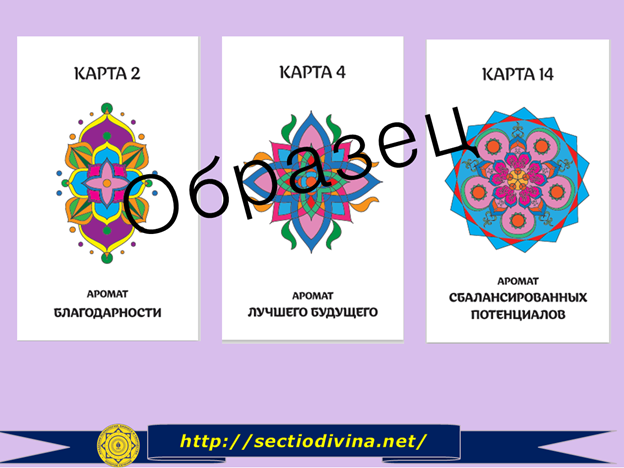
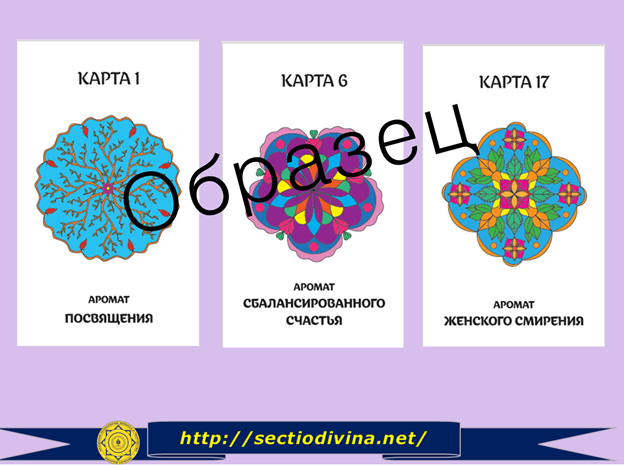
обновил карты

diff --git a/index.html b/index.html
@@ -53,11 +53,10 @@
       <div class="position-card">
         <div class="info infos1" id="info1">
           <h1 class="main-text1">Карта № 1</h1>
-          <h2 class="main-text2">Аромат благодарности.</h2>
+          <h2 class="main-text2">Аромат посвящения.</h2>
           <p class="cart1">
-            * Появление этой карты в раскладе говорит о том, что сейчас в вашей жизни имеет место проявление такого понятия как «Благодарность». 
-*Умеете ли вы быть благодарным людям за проявленное ими участие в вашей жизни? Проявляете ли вы благодарность искренне или чувствуете себя обязанным проявить ответное добро? Выскажите сейчас свою благодарность вашим близким.
-*Благодарны ли вы самой природе за каждый наступивший день, за возможность жить на нашей Земле
+            * Появление этой карты в раскладе говорит о том, что вам сейчас необходимо понять и осознать куда направлено ваше внимание, о чем вы думаете, насколько созидательны и позитивны ваши мысли, эмоции, действия?
+* Неосознанных людей легче увлечь иллюзиями и повести по ложному пути. Стремитесь ли вы получать истинные знания, прислушиваетесь ли к своей интуиции и внутренней мудрости? 
 
             <div class="number-cart">
               Пишите номер карты нам в ответном письме и получите доступ к медитации на платформе геткурс.
@@ -72,11 +71,15 @@
   
         <div class="info infos1" id="info2">
           <h4 class="main-text3">Карта № 2</h4>
-          <h5 class="main-text4">Аромат лучшего будущего.</h5>
+          <h5 class="main-text4">Аромат сбалансированного счастья.</h5>
           <p class="cart2">
-            * Появление этой карты в раскладе говорит о том, что в вашей жизни есть та область, где вы испытываете страх потерять определенный комфорт и сейчас вы можете поработать с этим страхом, который мешает вам двигаться вперед. 
-* Проанализируйте, как давно вы стремились изменить что-либо в вашей жизни к лучшему? Считаете ли вы, что достойны этого лучшего?
-* Появляется ли у вас беспокойство, когда вы оказываетесь в выигрышной ситуации?
+            *Появление этой карты в раскладе говорит о том, что пришла пора пересмотреть вашу позицию в отношении брать и давать. Проанализируйте ваши взаимоотношения с окружающими, родственниками, друзьями, коллегами:
+            -  Где происходит дисбаланс? 
+            - Насколько вы умеете принимать дары Вселенной в любом виде и насколько взвешенно вы можете отдавать то, что необходимо отдать. 
+            - Есть ли у вас проблемы со «спасательством»? Пытаетесь ли вы спасать кого-то, даже если вас об этом не просят. Что происходит в результате?
+            - Как давно вы чувствовали себя счастливым и беззаботным? 
+            - Устраивает ли вас ваше настоящее?
+            
 
             <div class="number-cart">
               Пишите номер карты нам в ответном письме и получите доступ к медитации на платформе геткурс.
@@ -92,11 +95,16 @@
             Карта № 3 
           </h6>
           <h7 class="main-text6">
-            Аромат сбалансированных потенциалов.
+            Аромат женского смирения.
           </h7>
           <p class="cart3">
-            * Появление этой карты в раскладе говорит о том, что сейчас для вас важно создать баланс между духовным и материальным аспектами вашей жизни. Проанализируйте, не отрицаете ли вы один из этих аспектов. Или не придаете ли намного больше значения духовной или материальной стороне вашей жизни.
-*Необходимо помнить, что счастье и душевный покой приходят тогда, когда наши духовные и материальные интересы сбалансированы. Когда мы не хотим больше того, что нам нужно, но и не отказываем себе в своих желаниях. Когда мы идем своей дорогой, занимаемся своим делом, не стесняемся брать деньги за свою работу, но при этом честны и щедры и умеем ценить то, что дает жизнь.
+            *Появление этой карты в раскладе говорит о том, что сейчас на вашу жизненную ситуацию влияет дисбаланс Инь (женское начало) -Ян (мужское начало). 
+* Инь -Ян- женское и мужское, белое и черное, горячее и холодное - они всегда вместе и лишь в гармонии этих двух составляющих можно обрести состояние истинного счастья.
+*Если вы чувствуете апатию, инертность и безразличие к желаниям и стремлениям, то пришло время гармонизировать свой Ян, пока он сам не вырвался наружу!  Направьте свое внимание на спорт, который развивает силу воли, настойчивость, способность бороться. Занимайтесь танцами, подвижными играми. Не уходите от ответственности, действуйте!
+*Если вы чувствуете, что начали зависать в мыслях, идеях, находитесь в постоянной напряженной спешке, где-то проявляете агрессию, то начинайте осознанно уходить в Инь. Становитесь ведомым, уходите в ощущения тела без мыслей и в наслаждение от процесса. Попробуйте фантазировать, использовать интуицию, осознавайте собственные и чужие эмоции. Займитесь медитацией, йогой.
+*Это не значит, что пробужденное мужское начало сделает из женщины мужчину, и наоборот. Речь идет о балансе, гармонии и осознанности. Раскрыв свои дремлющие стороны личности, вы научитесь более эффективно действовать в разных ситуациях.
+*Какой бы тип энергии не превалировал, в вас обязательно есть и энергия другого типа, и ее нужно уважать. Если вы не признаете в себе наличие и мужского и женского начала, продолжаете эксплуатировать свою первичную энергию, неизбежны моменты, которые заставят вас остановиться и ощутить противоположное состояние. 
+*Если вы не уважаете Иньскую энергию – не принимаете периоды покоя, не цените состояние сосредоточенности и бездействия, то это может привести к глубокой депрессии, когда высвободившаяся наконец-то энергия Инь охватывает человека, парализуя его неразумную активность.
             <div class="number-cart">
               Пишите номер карты нам в ответном письме и получите доступ к медитации на платформе геткурс.
             </div> 
